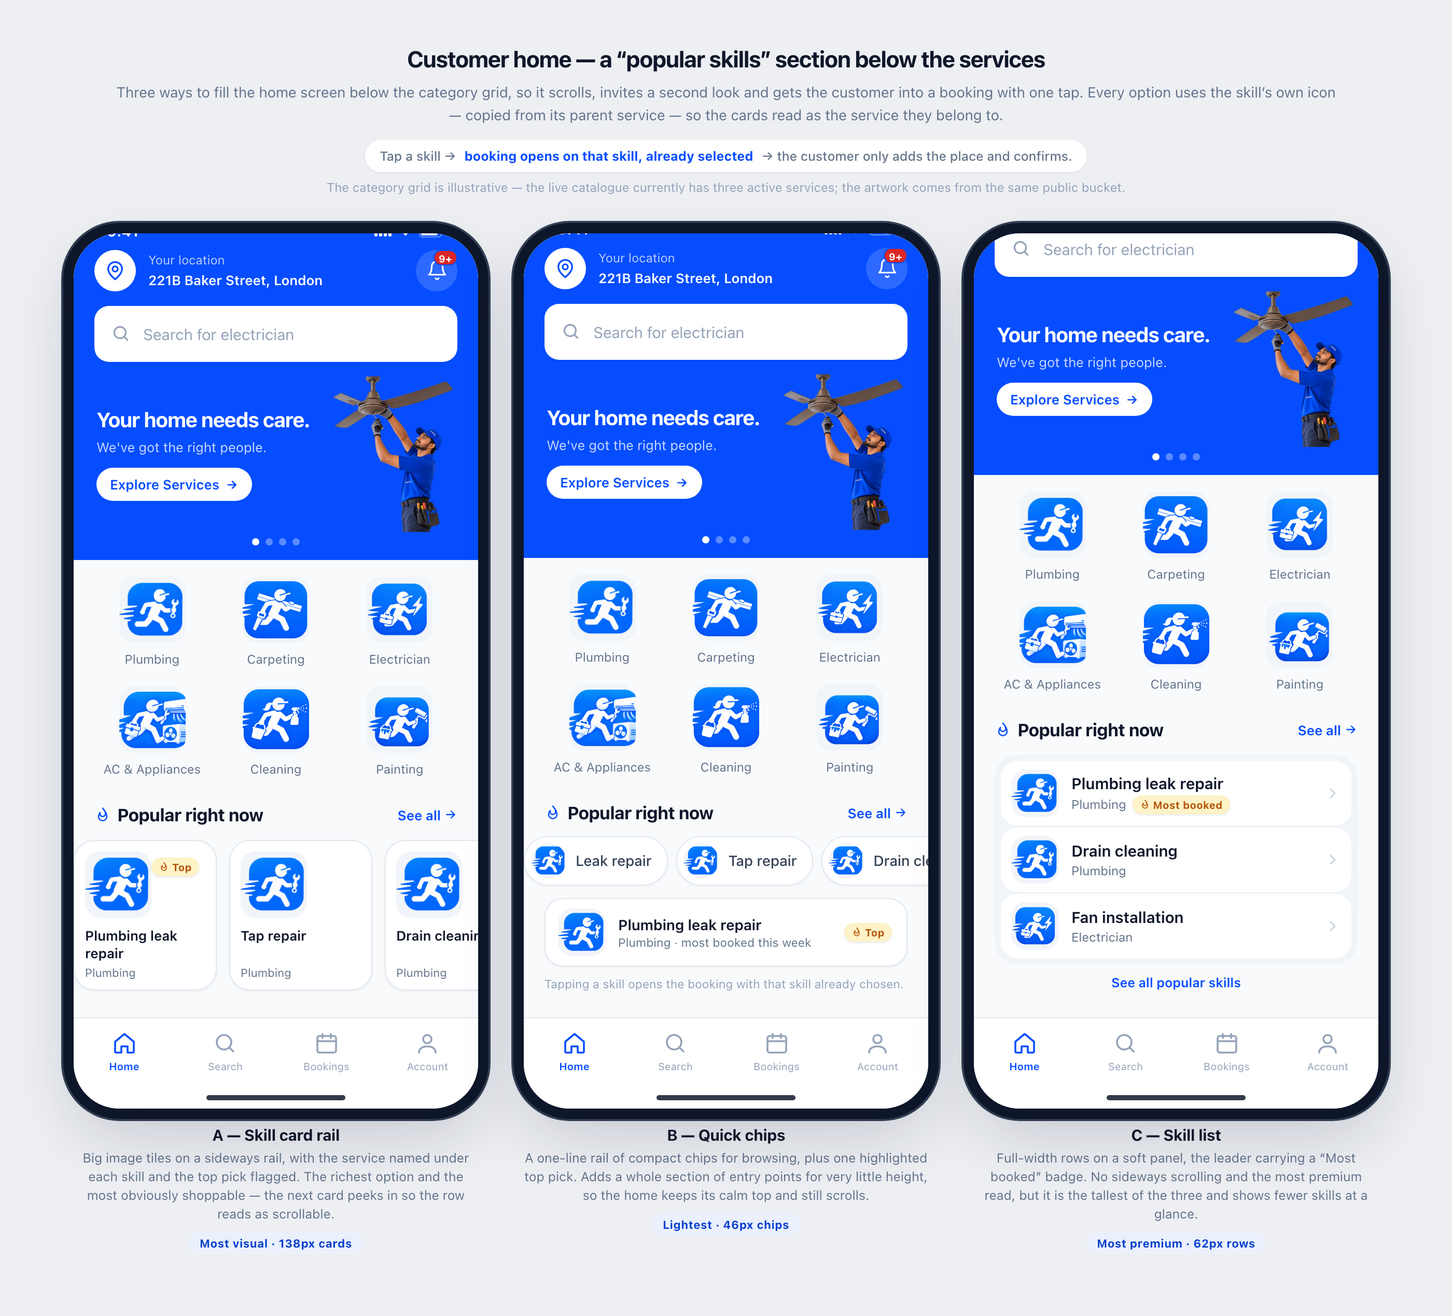
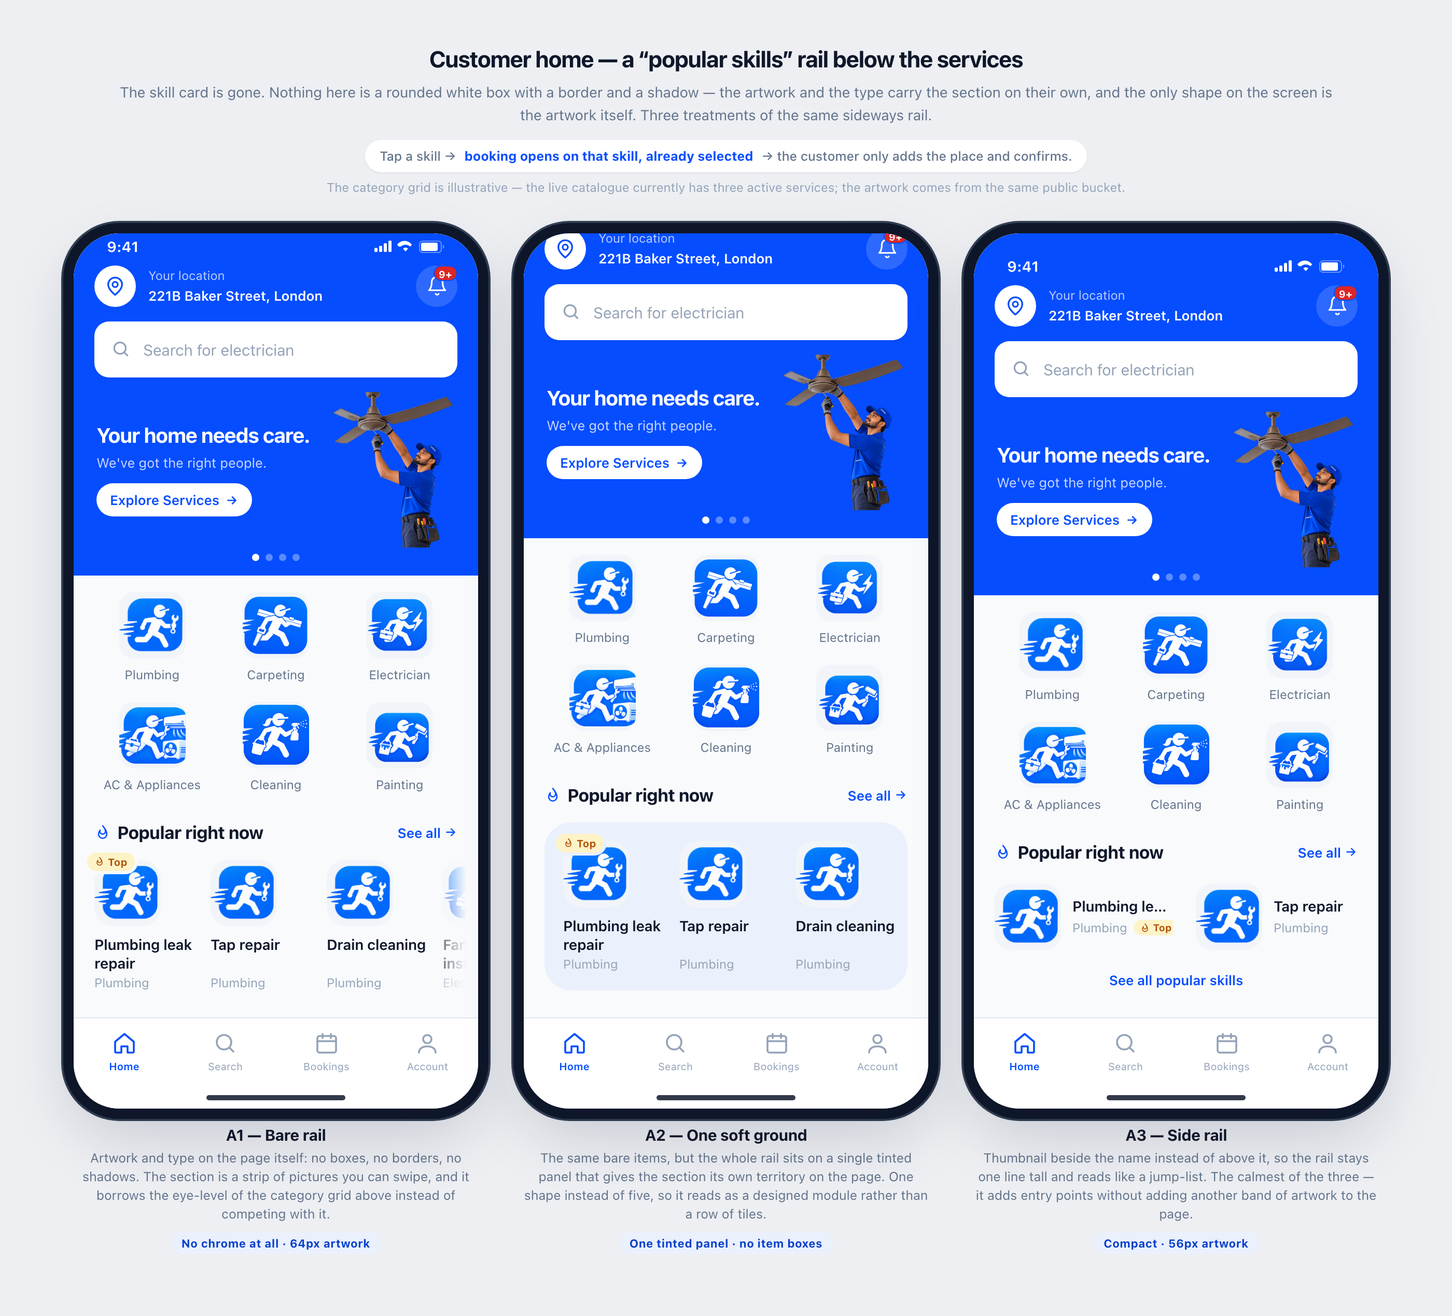
docs(mockups): drop the card chrome from the popular-skills rail
The skill card (white rounded box + border + shadow) read as generic
generated UI. Re-cut the section as a bare rail in three treatments:

  A1 bare rail     - artwork and type straight on the page, no boxes
  A2 one soft ground - the same items on a single tinted panel
  A3 side rail     - thumbnail beside the name, one line tall

Each frame is verified to end exactly on the tab bar with no dead space,
and the rail's first item lines up with the 20px page margin.

diff --git a/docs/mockups/home-popular-skills/preview.html b/docs/mockups/home-popular-skills/preview.html
@@ -3,7 +3,7 @@
 <head>
 <meta charset="utf-8">
 <meta name="viewport" content="width=device-width,initial-scale=1">
-<title>SAMONA — Customer home: popular skills section</title>
+<title>SAMONA — Customer home: popular skills rail</title>
 <style>
   :root{
     --brand:#054DFF; --brand-muted:#053FCC; --brand-soft:#EAF0FC;
@@ -51,25 +51,10 @@
   .caption .tag{display:inline-block;margin-top:8px;padding:4px 10px;border-radius:999px;
     background:var(--brand-soft);color:var(--brand-muted);font-size:11px;font-weight:700;letter-spacing:.02em}
 
-  body[data-variant="a"] .col-b, body[data-variant="a"] .col-c{display:none}
-  body[data-variant="b"] .col-a, body[data-variant="b"] .col-c{display:none}
-  body[data-variant="c"] .col-a, body[data-variant="c"] .col-b{display:none}
-
-  /* single-variant mode (preview.html#a) — full-bleed screen for the PNG captures */
-  body[data-variant="a"], body[data-variant="b"], body[data-variant="c"]{
-    padding:0; background:var(--ink-50);
-  }
-  body[data-variant="a"] .intro, body[data-variant="b"] .intro, body[data-variant="c"] .intro{display:none}
-  body[data-variant="a"] .caption, body[data-variant="b"] .caption, body[data-variant="c"] .caption{display:none}
-  body[data-variant="a"] .row, body[data-variant="b"] .row, body[data-variant="c"] .row{gap:0}
-  body[data-variant="a"] .phone, body[data-variant="b"] .phone, body[data-variant="c"] .phone{
-    border-radius:0; box-shadow:none;
-  }
-
   /* ---------- scroll area (hero scrolls with the content, like the app) ---------- */
   .scroller{flex:1;overflow:hidden;position:relative;background:var(--ink-50)}
   .content{position:absolute;left:0;right:0;top:calc(-1 * var(--scroll,0px))}
-  .col-a{--scroll:34px} .col-b{--scroll:36px} .col-c{--scroll:116px}
+  .col-a1{--scroll:19px} .col-a2{--scroll:55px} .col-a3{--scroll:0px}
 
   /* ---------- status bar ---------- */
   .statusbar{position:absolute;top:0;left:0;right:0;z-index:5;height:50px;display:flex;align-items:center;justify-content:space-between;
@@ -115,54 +100,48 @@
     background-size:cover;background-position:center}
   .tile span{font-size:12px;color:var(--ink-500);text-align:center;line-height:16px}
 
-  /* ---------- popular skills section ---------- */
-  .popular{margin-top:26px;padding-bottom:26px}
+  /* ---------- popular skills section (no card chrome) ---------- */
+  .popular{margin-top:28px;padding-bottom:26px;position:relative}
   .phead{display:flex;align-items:center;justify-content:space-between;padding:0 20px}
   .phead h3{font-size:17px;font-weight:700;color:var(--ink-900);letter-spacing:-.01em;display:flex;align-items:center;gap:6px}
   .phead h3 svg{width:16px;height:16px;stroke:var(--brand);stroke-width:1.9}
   .phead a{font-size:13px;font-weight:600;color:var(--brand);display:flex;align-items:center;gap:3px}
   .phead a svg{width:13px;height:13px;stroke:var(--brand);stroke-width:2.2}
 
-  /* A — skill card rail */
-  .rail{display:flex;gap:12px;margin:14px -20px 0;padding:0 20px}
-  .pcard{flex:none;width:138px;background:var(--white);border:1px solid var(--ink-200);border-radius:20px;
-    padding:10px;box-shadow:0 1px 2px rgba(15,23,42,.06);position:relative}
-  .pcard .img{width:64px;height:64px;border-radius:14px;background:var(--ink-100);background-size:cover;background-position:center}
-  .pcard .name{font-size:13px;font-weight:600;color:var(--ink-900);line-height:17px;margin-top:9px;height:34px;overflow:hidden}
-  .pcard .meta{font-size:11px;color:var(--ink-500);margin-top:3px}
-  .pcard .flag{position:absolute;top:16px;right:16px}
-  .pcard .more::after{content:"";position:absolute;right:-10px;top:0;bottom:0;width:34px;
-    background:linear-gradient(90deg,rgba(248,250,252,0),var(--ink-50))}
   .flag{display:inline-flex;align-items:center;gap:3px;font-size:10px;font-weight:700;color:var(--amber-700);
-    background:var(--amber-100);border-radius:999px;padding:3px 7px;letter-spacing:.01em;
-    box-shadow:0 1px 2px rgba(15,23,42,.10)}
+    background:var(--amber-100);border-radius:999px;padding:3px 7px;letter-spacing:.01em;white-space:nowrap}
   .flag svg{width:10px;height:10px;stroke:var(--amber-700);stroke-width:2}
 
-  /* B — chips + one highlighted pick */
-  .chips{display:flex;gap:8px;margin:12px -20px 0;padding:0 20px}
-  .chip{flex:none;display:flex;align-items:center;gap:9px;background:var(--white);border:1px solid var(--ink-200);
-    border-radius:999px;padding:6px 15px 6px 6px;box-shadow:0 1px 2px rgba(15,23,42,.05)}
-  .chip .img{width:34px;height:34px;border-radius:999px;background:var(--ink-100);background-size:cover;background-position:center}
-  .chip span{font-size:14px;font-weight:500;color:var(--ink-700);line-height:20px}
-  .pick{display:flex;align-items:center;gap:12px;margin:12px 20px 0;background:var(--white);
-    border:1px solid var(--ink-200);border-radius:18px;padding:9px 12px;box-shadow:0 1px 2px rgba(15,23,42,.06)}
-  .pick .img{width:46px;height:46px;border-radius:14px;background:var(--ink-100);background-size:cover;background-position:center;flex:none}
-  .pick .txt{min-width:0;flex:1}
-  .pick .name{font-size:14px;font-weight:600;color:var(--ink-900);line-height:19px}
-  .pick .meta{font-size:11.5px;color:var(--ink-500);margin-top:1px}
-  .pick .flag{margin-right:2px}
-  .chips-note{margin:10px 20px 0;font-size:11.5px;color:var(--ink-400)}
+  /* A1 — bare rail: artwork + type, no boxes at all */
+  .rail{display:flex;gap:14px;margin:16px -20px 0 0;padding:0 20px}
+  .item{flex:none;width:98px;position:relative}
+  .item .img{width:64px;height:64px;border-radius:18px;background:var(--ink-100);
+    background-size:cover;background-position:center}
+  .item .name{font-size:14px;font-weight:600;color:var(--ink-900);line-height:18px;margin-top:9px;
+    height:36px;overflow:hidden;letter-spacing:-.005em}
+  .item .meta{font-size:12px;color:var(--ink-400);margin-top:2px;white-space:nowrap;overflow:hidden;text-overflow:ellipsis}
+  .item .flag{position:absolute;top:-7px;left:-7px;box-shadow:0 0 0 3px var(--ink-50),0 1px 2px rgba(15,23,42,.12)}
+  .rail-fade{position:absolute;right:0;top:34px;bottom:26px;width:52px;pointer-events:none;
+    background:linear-gradient(90deg,rgba(248,250,252,0),var(--ink-50) 78%)}
 
-  /* C — skill list */
-  .plist{margin:14px 20px 0;background:var(--ink-100);border-radius:22px;padding:6px}
-  .prow{display:flex;align-items:center;gap:12px;padding:8px 10px;background:var(--white);border-radius:16px}
-  .prow+.prow{margin-top:2px}
-  .prow .img{width:46px;height:46px;border-radius:14px;background:var(--ink-100);background-size:cover;background-position:center;flex:none}
-  .prow .txt{min-width:0;flex:1}
-  .prow .name{font-size:15px;font-weight:600;color:var(--ink-900);line-height:20px;white-space:nowrap;overflow:hidden;text-overflow:ellipsis}
-  .prow .meta{font-size:12px;color:var(--ink-500);margin-top:2px;display:flex;align-items:center;gap:6px}
-  .prow .chev{width:16px;height:16px;stroke:var(--ink-300);stroke-width:2.2;flex:none}
-  .plink{margin:10px 20px 0;font-size:12.5px;font-weight:600;color:var(--brand);text-align:center}
+  /* A2 — the rail sits on one soft tinted ground, still no per-item boxes */
+  .panel{margin:16px 20px 0;background:var(--brand-soft);border-radius:26px;padding:18px 0 18px 18px;overflow:hidden}
+  .panel .rail{margin:0;padding:0 18px 0 0}
+  .panel .item .flag{box-shadow:0 0 0 3px var(--brand-soft),0 1px 2px rgba(15,23,42,.12)}
+  .panel .name{color:var(--ink-900)}
+
+  /* A3 — compact side rail: thumbnail beside the name */
+  .rail-side{display:flex;gap:22px;margin:20px -20px 0 0;padding:0 20px}
+  .sitem{flex:none;display:flex;align-items:center;gap:11px;width:172px}
+  .sitem .img{width:64px;height:64px;border-radius:16px;background:var(--ink-100);
+    background-size:cover;background-position:center;flex:none}
+  .sitem .txt{min-width:0}
+  .sitem .name{font-size:14px;font-weight:600;color:var(--ink-900);line-height:18px;
+    white-space:nowrap;overflow:hidden;text-overflow:ellipsis;letter-spacing:-.005em}
+  .sitem .meta{font-size:12px;color:var(--ink-400);margin-top:4px;display:flex;align-items:center;gap:6px;
+    white-space:nowrap;overflow:hidden}
+  .sitem .meta .flag{padding:2px 6px;font-size:9.5px}
+  .plink{margin:21px 20px 0;font-size:13px;font-weight:600;color:var(--brand);text-align:center}
 
   /* ---------- tab bar ---------- */
   .tabbar{flex:none;height:88px;background:var(--white);border-top:1px solid var(--ink-200);
@@ -176,16 +155,16 @@
 </head>
 <body>
   <div class="intro">
-    <h1>Customer home — a “popular skills” section below the services</h1>
-    <p>Three ways to fill the home screen below the category grid, so it scrolls, invites a second look and gets the customer into a booking with one tap.
-       Every option uses the skill’s own icon — copied from its parent service — so the cards read as the service they belong to.</p>
+    <h1>Customer home — a “popular skills” rail below the services</h1>
+    <p>The skill card is gone. Nothing here is a rounded white box with a border and a shadow — the artwork and the type carry the section on their own,
+       and the only shape on the screen is the artwork itself. Three treatments of the same sideways rail.</p>
     <div class="flow">Tap a skill → <b>booking opens on that skill, already selected</b> → the customer only adds the place and confirms.</div>
     <p class="note">The category grid is illustrative — the live catalogue currently has three active services; the artwork comes from the same public bucket.</p>
   </div>
 
   <div class="row">
-    <!-- ======================= VARIANT A ======================= -->
-    <div class="col col-a">
+    <!-- ======================= A1 — bare rail ======================= -->
+    <div class="col col-a1">
       <div class="phone">
         <div class="scroller"><div class="content">
           <div class="hero">
@@ -229,16 +208,17 @@
               <a>See all<svg viewBox="0 0 24 24" fill="none" stroke-linecap="round" stroke-linejoin="round"><path d="M5 12h14M13 6l6 6-6 6"/></svg></a>
             </div>
             <div class="rail">
-              <div class="pcard">
+              <div class="item">
                 <div class="img" style="background-image:var(--img-plumbing)"></div>
                 <div class="flag"><svg viewBox="0 0 24 24" fill="none" stroke-linecap="round" stroke-linejoin="round"><path d="M12 2s4 4.5 4 8a4 4 0 0 1-8 0c0-1 .3-1.8.3-1.8S6 11 6 14a6 6 0 0 0 12 0c0-5-6-12-6-12Z"/></svg>Top</div>
                 <div class="name">Plumbing leak repair</div><div class="meta">Plumbing</div>
               </div>
-              <div class="pcard"><div class="img" style="background-image:var(--img-plumbing)"></div><div class="name">Tap repair</div><div class="meta">Plumbing</div></div>
-              <div class="pcard"><div class="img" style="background-image:var(--img-plumbing)"></div><div class="name">Drain cleaning</div><div class="meta">Plumbing</div></div>
-              <div class="pcard"><div class="img" style="background-image:var(--img-electric)"></div><div class="name">Fan installation</div><div class="meta">Electrician</div></div>
-              <div class="pcard more"><div class="img" style="background-image:var(--img-electric)"></div><div class="name">Light fixture installation</div><div class="meta">Electrician</div></div>
+              <div class="item"><div class="img" style="background-image:var(--img-plumbing)"></div><div class="name">Tap repair</div><div class="meta">Plumbing</div></div>
+              <div class="item"><div class="img" style="background-image:var(--img-plumbing)"></div><div class="name">Drain cleaning</div><div class="meta">Plumbing</div></div>
+              <div class="item"><div class="img" style="background-image:var(--img-electric)"></div><div class="name">Fan installation</div><div class="meta">Electrician</div></div>
+              <div class="item"><div class="img" style="background-image:var(--img-electric)"></div><div class="name">Light fixture installation</div><div class="meta">Electrician</div></div>
             </div>
+            <div class="rail-fade"></div>
           </div>
         </div></div>
 
@@ -251,14 +231,14 @@
         </div>
       </div>
       <div class="caption">
-        <h2>A — Skill card rail</h2>
-        <p>Big image tiles on a sideways rail, with the service named under each skill and the top pick flagged. The richest option and the most obviously shoppable — the next card peeks in so the row reads as scrollable.</p>
-        <span class="tag">Most visual · 138px cards</span>
+        <h2>A1 — Bare rail</h2>
+        <p>Artwork and type on the page itself: no boxes, no borders, no shadows. The section is a strip of pictures you can swipe, and it borrows the eye-level of the category grid above instead of competing with it.</p>
+        <span class="tag">No chrome at all · 64px artwork</span>
       </div>
     </div>
 
-    <!-- ======================= VARIANT B ======================= -->
-    <div class="col col-b">
+    <!-- ======================= A2 — soft ground ======================= -->
+    <div class="col col-a2">
       <div class="phone">
         <div class="scroller"><div class="content">
           <div class="hero">
@@ -301,22 +281,19 @@
               <h3><svg viewBox="0 0 24 24" fill="none" stroke-linecap="round" stroke-linejoin="round"><path d="M12 2s4 4.5 4 8a4 4 0 0 1-8 0c0-1 .3-1.8.3-1.8S6 11 6 14a6 6 0 0 0 12 0c0-5-6-12-6-12Z"/></svg>Popular right now</h3>
               <a>See all<svg viewBox="0 0 24 24" fill="none" stroke-linecap="round" stroke-linejoin="round"><path d="M5 12h14M13 6l6 6-6 6"/></svg></a>
             </div>
-            <div class="chips">
-              <div class="chip"><div class="img" style="background-image:var(--img-plumbing)"></div><span>Leak repair</span></div>
-              <div class="chip"><div class="img" style="background-image:var(--img-plumbing)"></div><span>Tap repair</span></div>
-              <div class="chip"><div class="img" style="background-image:var(--img-plumbing)"></div><span>Drain cleaning</span></div>
-              <div class="chip"><div class="img" style="background-image:var(--img-electric)"></div><span>Fan installation</span></div>
-              <div class="chip"><div class="img" style="background-image:var(--img-electric)"></div><span>Light fitting</span></div>
-            </div>
-            <div class="pick">
-              <div class="img" style="background-image:var(--img-plumbing)"></div>
-              <div class="txt">
-                <div class="name">Plumbing leak repair</div>
-                <div class="meta">Plumbing · most booked this week</div>
+            <div class="panel">
+              <div class="rail">
+                <div class="item">
+                  <div class="img" style="background-image:var(--img-plumbing)"></div>
+                  <div class="flag"><svg viewBox="0 0 24 24" fill="none" stroke-linecap="round" stroke-linejoin="round"><path d="M12 2s4 4.5 4 8a4 4 0 0 1-8 0c0-1 .3-1.8.3-1.8S6 11 6 14a6 6 0 0 0 12 0c0-5-6-12-6-12Z"/></svg>Top</div>
+                  <div class="name">Plumbing leak repair</div><div class="meta">Plumbing</div>
+                </div>
+                <div class="item"><div class="img" style="background-image:var(--img-plumbing)"></div><div class="name">Tap repair</div><div class="meta">Plumbing</div></div>
+                <div class="item"><div class="img" style="background-image:var(--img-plumbing)"></div><div class="name">Drain cleaning</div><div class="meta">Plumbing</div></div>
+                <div class="item"><div class="img" style="background-image:var(--img-electric)"></div><div class="name">Fan installation</div><div class="meta">Electrician</div></div>
+                <div class="item"><div class="img" style="background-image:var(--img-electric)"></div><div class="name">Light fixture installation</div><div class="meta">Electrician</div></div>
               </div>
-              <div class="flag"><svg viewBox="0 0 24 24" fill="none" stroke-linecap="round" stroke-linejoin="round"><path d="M12 2s4 4.5 4 8a4 4 0 0 1-8 0c0-1 .3-1.8.3-1.8S6 11 6 14a6 6 0 0 0 12 0c0-5-6-12-6-12Z"/></svg>Top</div>
             </div>
-            <div class="chips-note">Tapping a skill opens the booking with that skill already chosen.</div>
           </div>
         </div></div>
 
@@ -329,14 +306,14 @@
         </div>
       </div>
       <div class="caption">
-        <h2>B — Quick chips</h2>
-        <p>A one-line rail of compact chips for browsing, plus one highlighted top pick. Adds a whole section of entry points for very little height, so the home keeps its calm top and still scrolls.</p>
-        <span class="tag">Lightest · 46px chips</span>
+        <h2>A2 — One soft ground</h2>
+        <p>The same bare items, but the whole rail sits on a single tinted panel that gives the section its own territory on the page. One shape instead of five, so it reads as a designed module rather than a row of tiles.</p>
+        <span class="tag">One tinted panel · no item boxes</span>
       </div>
     </div>
 
-    <!-- ======================= VARIANT C ======================= -->
-    <div class="col col-c">
+    <!-- ======================= A3 — side rail ======================= -->
+    <div class="col col-a3">
       <div class="phone">
         <div class="scroller"><div class="content">
           <div class="hero">
@@ -379,30 +356,25 @@
               <h3><svg viewBox="0 0 24 24" fill="none" stroke-linecap="round" stroke-linejoin="round"><path d="M12 2s4 4.5 4 8a4 4 0 0 1-8 0c0-1 .3-1.8.3-1.8S6 11 6 14a6 6 0 0 0 12 0c0-5-6-12-6-12Z"/></svg>Popular right now</h3>
               <a>See all<svg viewBox="0 0 24 24" fill="none" stroke-linecap="round" stroke-linejoin="round"><path d="M5 12h14M13 6l6 6-6 6"/></svg></a>
             </div>
-            <div class="plist">
-              <div class="prow">
+            <div class="rail-side">
+              <div class="sitem">
                 <div class="img" style="background-image:var(--img-plumbing)"></div>
                 <div class="txt">
                   <div class="name">Plumbing leak repair</div>
-                  <div class="meta">Plumbing<span class="flag"><svg viewBox="0 0 24 24" fill="none" stroke-linecap="round" stroke-linejoin="round"><path d="M12 2s4 4.5 4 8a4 4 0 0 1-8 0c0-1 .3-1.8.3-1.8S6 11 6 14a6 6 0 0 0 12 0c0-5-6-12-6-12Z"/></svg>Most booked</span></div>
+                  <div class="meta">Plumbing<span class="flag"><svg viewBox="0 0 24 24" fill="none" stroke-linecap="round" stroke-linejoin="round"><path d="M12 2s4 4.5 4 8a4 4 0 0 1-8 0c0-1 .3-1.8.3-1.8S6 11 6 14a6 6 0 0 0 12 0c0-5-6-12-6-12Z"/></svg>Top</span></div>
                 </div>
-                <svg class="chev" viewBox="0 0 24 24" fill="none" stroke-linecap="round" stroke-linejoin="round"><path d="M9 6l6 6-6 6"/></svg>
               </div>
-              <div class="prow">
+              <div class="sitem">
                 <div class="img" style="background-image:var(--img-plumbing)"></div>
-                <div class="txt">
-                  <div class="name">Drain cleaning</div>
-                  <div class="meta">Plumbing</div>
-                </div>
-                <svg class="chev" viewBox="0 0 24 24" fill="none" stroke-linecap="round" stroke-linejoin="round"><path d="M9 6l6 6-6 6"/></svg>
+                <div class="txt"><div class="name">Tap repair</div><div class="meta">Plumbing</div></div>
               </div>
-              <div class="prow">
+              <div class="sitem">
+                <div class="img" style="background-image:var(--img-plumbing)"></div>
+                <div class="txt"><div class="name">Drain cleaning</div><div class="meta">Plumbing</div></div>
+              </div>
+              <div class="sitem">
                 <div class="img" style="background-image:var(--img-electric)"></div>
-                <div class="txt">
-                  <div class="name">Fan installation</div>
-                  <div class="meta">Electrician</div>
-                </div>
-                <svg class="chev" viewBox="0 0 24 24" fill="none" stroke-linecap="round" stroke-linejoin="round"><path d="M9 6l6 6-6 6"/></svg>
+                <div class="txt"><div class="name">Fan installation</div><div class="meta">Electrician</div></div>
               </div>
             </div>
             <div class="plink">See all popular skills</div>
@@ -418,15 +390,33 @@
         </div>
       </div>
       <div class="caption">
-        <h2>C — Skill list</h2>
-        <p>Full-width rows on a soft panel, the leader carrying a “Most booked” badge. No sideways scrolling and the most premium read, but it is the tallest of the three and shows fewer skills at a glance.</p>
-        <span class="tag">Most premium · 62px rows</span>
+        <h2>A3 — Side rail</h2>
+        <p>Thumbnail beside the name instead of above it, so the rail stays one line tall and reads like a jump-list. The calmest of the three — it adds entry points without adding another band of artwork to the page.</p>
+        <span class="tag">Compact · 56px artwork</span>
       </div>
     </div>
   </div>
 
 <script>
-  document.body.dataset.variant = location.hash.replace('#','') || 'all';
+  // #a1 | #a2 | #a3 renders a single variant full-bleed for the PNG captures
+  (function () {
+    const variant = location.hash.replace('#', '') || 'all';
+    document.body.dataset.variant = variant;
+    if (variant === 'all') return;
+    const cols = Array.from(document.querySelectorAll('.col'));
+    const active = cols.find((col) => col.classList.contains('col-' + variant));
+    cols.forEach((col) => {
+      if (col !== active) col.style.display = 'none';
+    });
+    document.querySelector('.intro').style.display = 'none';
+    document.querySelectorAll('.caption').forEach((el) => (el.style.display = 'none'));
+    document.body.style.padding = '0';
+    document.body.style.background = 'var(--ink-50)';
+    document.querySelectorAll('.phone').forEach((el) => {
+      el.style.borderRadius = '0';
+      el.style.boxShadow = 'none';
+    });
+  })();
 </script>
 </body>
 </html>
